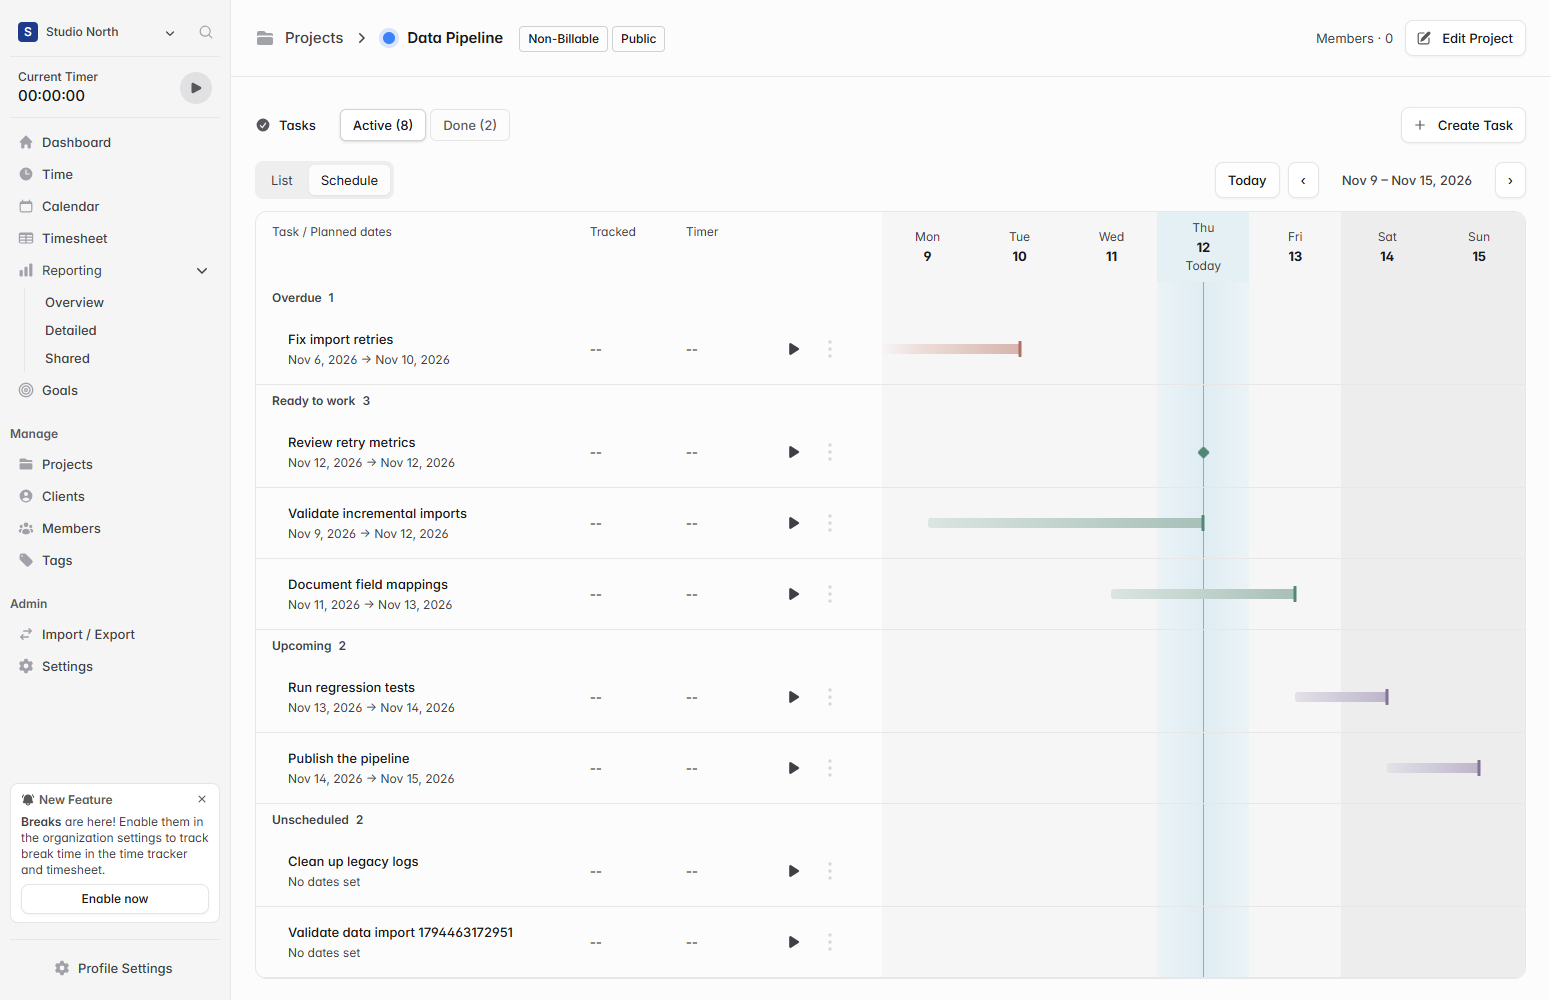
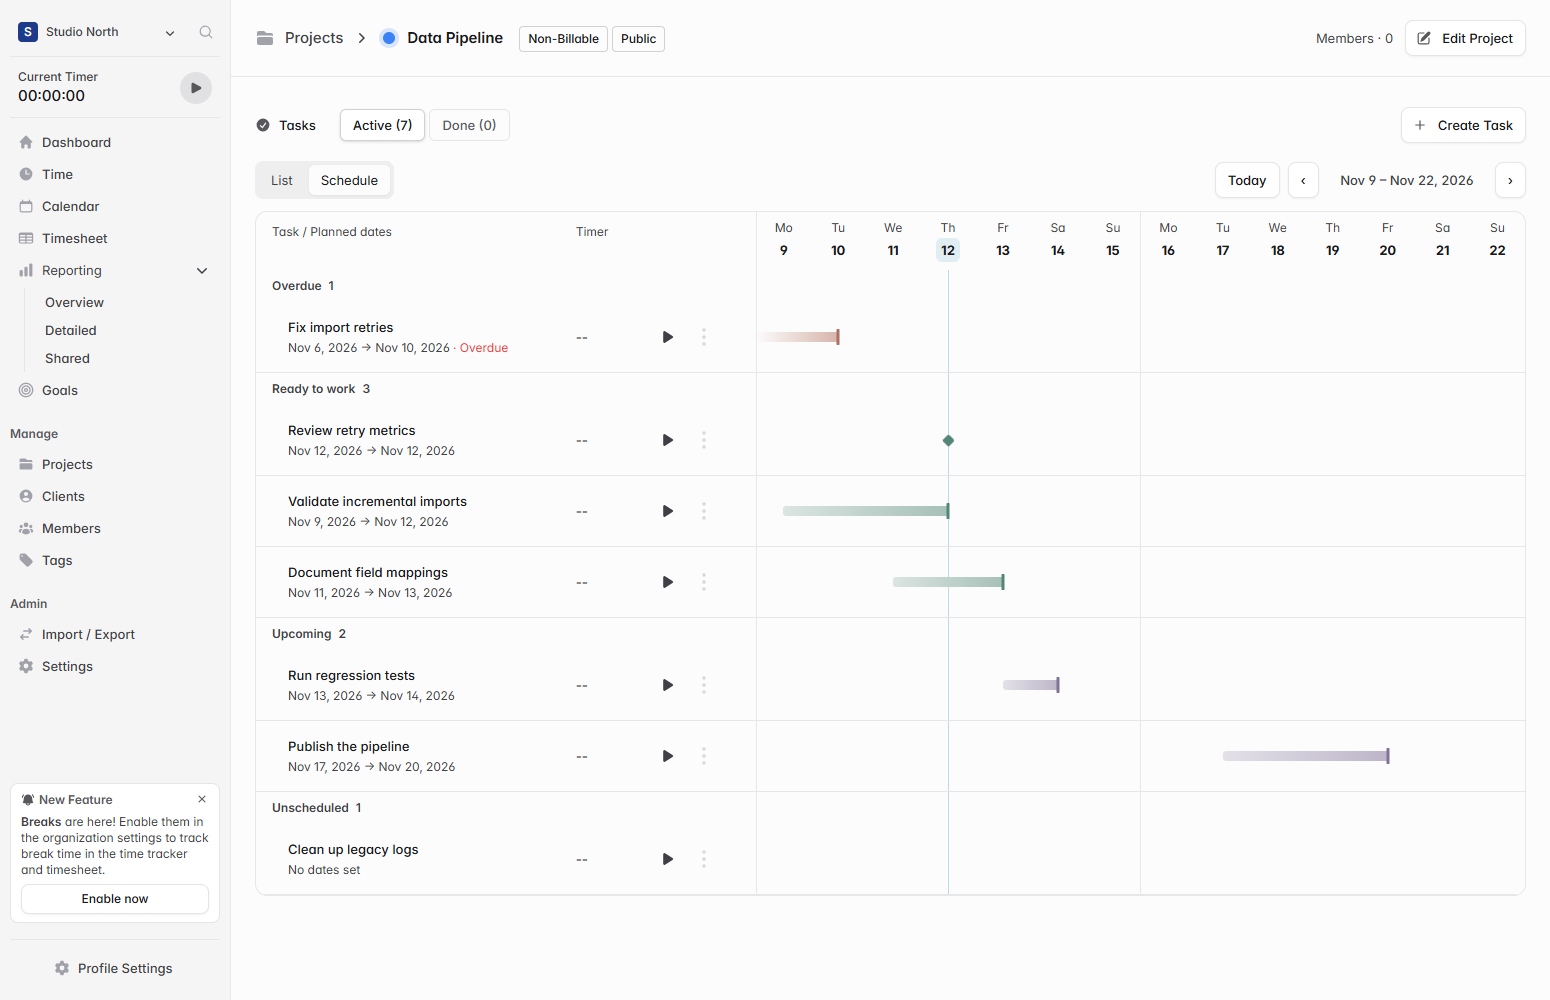
docs: update project schedule screenshots and behavior

diff --git a/README.md b/README.md
@@ -1,6 +1,6 @@
-# Show a weekly schedule for project tasks
+# Show a two-week schedule for project tasks
 
-Project task lists show due dates, but it takes several rows to see what can be started now and how planned dates overlap. Open **Projects → a project → Active → Schedule** to see active tasks alongside a weekly timeline.
+Project task lists show due dates, but it takes several rows to see what can be started now and how planned dates overlap. Open **Projects → a project → Active → Schedule** to see active tasks alongside a two-week timeline.
 
 - Tasks are grouped by whether they are overdue, ready to work on, upcoming, or unscheduled.
 - Gradient bars show planned ranges, with a tick on the deadline and a diamond for single-day deadlines.
@@ -9,15 +9,19 @@ Project task lists show due dates, but it takes several rows to see what can be 
 
 ![Weekly Schedule in Solidtime with sample tasks](.github/feature-images/project-task-schedule.png)
 
+Schedule shows this week and next week by default. A subtle line marks today, and overdue tasks carry a label. Timer controls remain available. The completed-task checkbox shows a focus ring during keyboard navigation.
+
 ## Verification
+
+The two-week update passed the frontend build and local browser checks for 14 date columns, completed-task filtering, and timer actions.
 
 Built the frontend and ran type checking and lint. Used Edge with the built assets and a local Solidtime API to check all four groups, gradient deadline alignment, week navigation, task details, the Done list, and starting and pausing a real test timer across the two views.
 
 ## Schedule across projects
 
-Open **Projects → Schedule** to see tasks grouped by project on one weekly timeline. Project search and filters also apply in this view. Completed tasks are hidden by default. Select **Show completed tasks** next to project search to display them with a **Done** label. Tasks without dates remain listed under their project. A subtle tint highlights the current day. To open a single project directly in Schedule, use **Open Schedule** in its actions menu.
+Open **Projects → Schedule** to see tasks grouped by project on one two-week timeline. Project search and filters also apply in this view. Completed tasks are hidden by default. Select **Show completed tasks** next to project search to display them with a **Done** label. Tasks without dates remain listed under their project. A subtle tint highlights the current day. To open a single project directly in Schedule, use **Open Schedule** in its actions menu.
 
-![Projects overview showing multiple projects on the same weekly schedule](.github/feature-images/projects-overview-schedule.png)
+![Projects overview showing multiple projects on the same two-week schedule](.github/feature-images/projects-overview-schedule.png)
 
 Edge verification with the local API covered two projects on the same timeline, the default and toggled completed-task filter, search filtering, the highlighted date, and switching between the overview, individual schedule, and List views.
 
